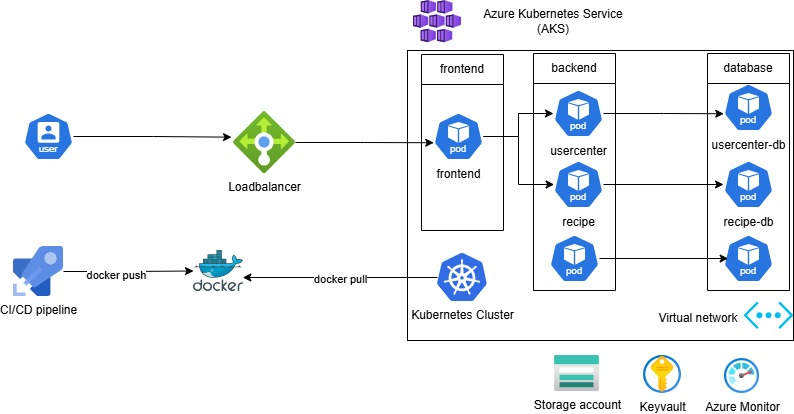
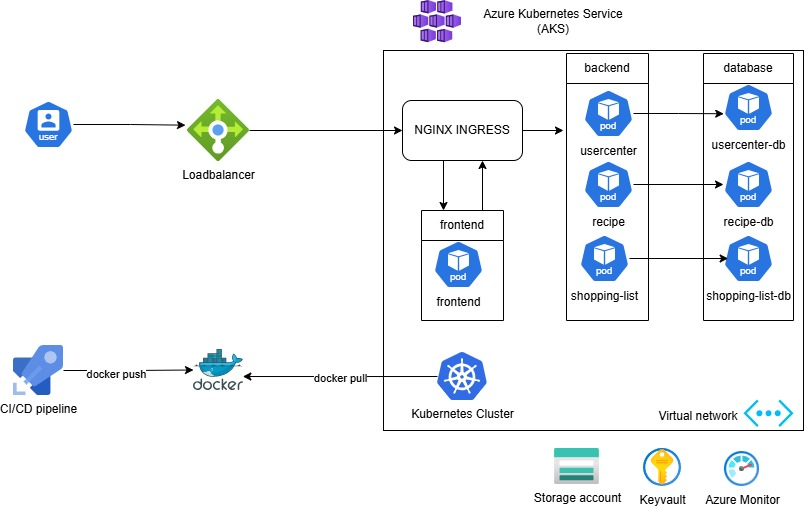
add NGINX ingress

diff --git a/AKS/readme.md b/AKS/readme.md
@@ -67,3 +67,14 @@ kubectl apply -f backends.yaml
 kubectl apply -f frontend.yaml
 ```
 
+## Install NGINX Ingress
+
+```
+kubectl apply -f https://raw.githubusercontent.com/kubernetes/ingress-nginx/controller-v1.8.1/deploy/static/provider/cloud/deploy.yaml
+```
+## Edit configmapp
+Update REACT_APP_RECIPE_API_URL & REACT_APP_API_URL to NGINX ingress public IP
+
+```
+kubectl edit configmap/app-config
+```
